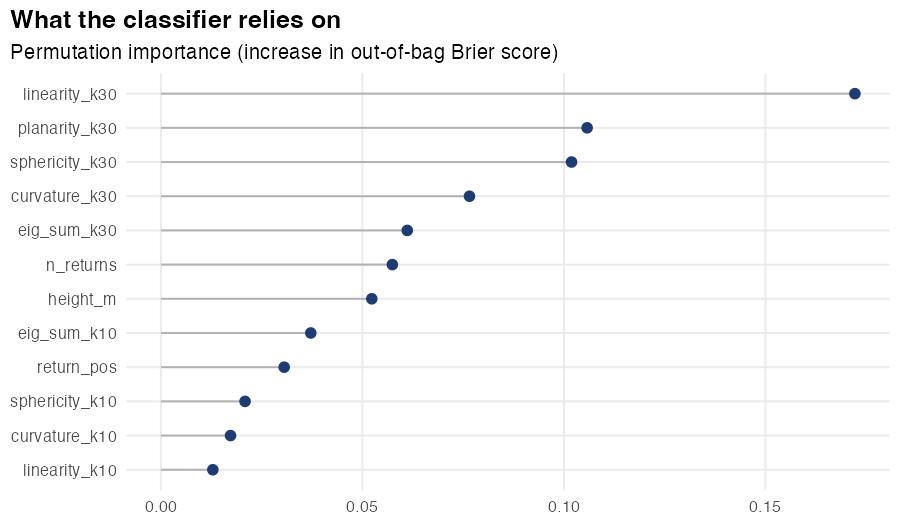
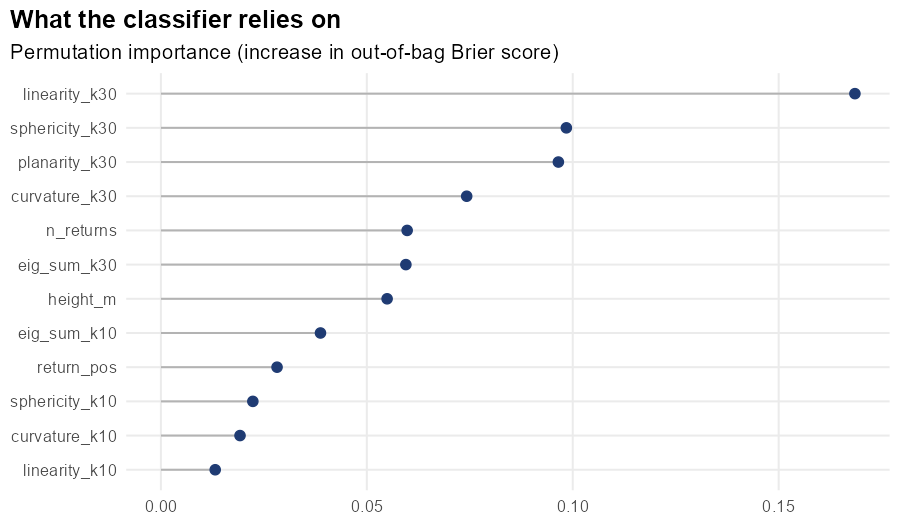
Re-run both case studies after the Tier 1 fixes; update README numbers and figures
Code state: main + #23 (unobserved coverage) + #41 (measured confidence,
fixed-zero scale), with #25 (abstain on unmapped conductors, minor_line
context), #26 (Landsat pixel gates), #27, #28 and #29 already on main.
The OSM context caches were deleted and re-fetched so they now include
power=minor_line ways.

Sunshine: tiers, strike trees, coverage and wind are unchanged. The
label change moved the CV numbers slightly (wire spatial AP 0.004 ->
0.003, random 0.22 -> 0.21; building spatial 0.36 -> 0.45). Landsat now
scores 63 pixels instead of 142 (104 excluded as < 80% observed, 99 as
< 50% canopy); 15 of 30 segments are ranked instead of 23; the top
grow-in candidate rests on one scored pixel and gets no percentile; 2
dry segments remain (0.05-0.10 and 0.46-0.51 km), both bound-dependent.

Nashville: tiers unchanged (0 grow-in, 7 fall-in, 32 clear, 24 strike
trees); 104,181 wire-labelled returns (was 104,650); wire spatial AP
0.89; weak-label kappa 0.07 (was -0.01); vendor-reference building F1
0.87; vendor + exclusion screen 0/9/30 (was 0/10/29); transfer AP 0.23.
The risk map no longer draws the zero-encroachment line mid-orange.

(cherry picked from commit 72e749e8ac0af9773a0ade0b2681754052009d0a)

diff --git a/README.md b/README.md
@@ -20,7 +20,7 @@
 | LiDAR | `CO_DRCOG_2020`, UTM metres, ~35 pts/m² | `TN_DavidsonCounty_D22`, Tennessee State Plane **US survey feet**, ~34 pts/m² |
 | Delivered classes | ground / unclassified / noise only | + vegetation (3–5) and buildings (6) |
 | Line length, above-ground points | 1.52 km, 2.26 M | 2.0 km, 1.05 M |
-| Conductor returns found | 914 | 104,650 |
+| Conductor returns found | 914 | 104,181 |
 | Conductor elevation measured along | 2% of the line | **~100%** of the line |
 | Result | Bounded: 3 robust grow-in candidates, 27 segments undecidable | Decisive: no grow-in, 24 strike trees in 7 segments, 32 clear |
 
@@ -28,8 +28,8 @@
 
 1. **No public 3DEP project from 2019 on labels power lines.** I sampled the classification of all 641 USGS 3DEP projects from 2019 onward in the public Entwine index. None uses the ASPRS wire classes; the few hits for codes 13/14 were topobathy datasets or state-specific reuse (NC Phase 4 uses 13 for roads). Conductor labels have to be derived.
 2. **Whether public LiDAR can decide grow-in depends on whether it sampled the conductors.** In Colorado it barely did, so the conductor is bounded within a band tens of metres tall and 27 of 30 segments stay undecidable. In Nashville, the 500 kV bundles were sampled along almost the whole line, so the same pipeline gives a measured, decisive screen.
-3. **Vendor vegetation classes contain the conductors.** In Nashville, 99.3% of conductor returns (103,918 points, 15–45 m up) are delivered as *high vegetation*. A canopy model built straight from the delivered classes flags **every one** of the 39 segments as grow-in; with conductor returns removed, none are.
-4. **Random cross-validation on point clouds misleads.** Random folds report a Colorado wire average precision of 0.22; 100 m spatial blocks report 0.004. A model trained in Colorado doesn't transfer to Nashville (wire recall 0).
+3. **Vendor vegetation classes contain the conductors.** In Nashville, 99.3% of conductor returns (103,449 points, 15–45 m up) are delivered as *high vegetation*. A canopy model built straight from the delivered classes flags **every one** of the 39 segments as grow-in; with conductor returns removed, none are.
+4. **Random cross-validation on point clouds misleads.** Random folds report a Colorado wire average precision of 0.21; 100 m spatial blocks report 0.003. A model trained in Colorado doesn't transfer to Nashville (wire recall 0).
 
 ![Nashville risk map](man/figures/nashville_risk_map.png)
 
@@ -143,24 +143,24 @@ Each segment reports `frac_observed` (across the corridor) and `frac_observed_un
 
 | class | n | prevalence | avg. precision, spatial blocks | random folds | spatial, no height/echo |
 |---|---:|---:|---:|---:|---:|
-| building | 3,608 | 0.0016 | 0.36 | 0.85 | 0.51 |
-| structure | 1,602 | 0.0007 | 0.012 | 0.41 | 0.011 |
-| wire | 914 | 0.0004 | 0.004 | 0.22 | 0.005 |
+| building | 3,608 | 0.0016 | 0.45 | 0.82 | 0.55 |
+| structure | 1,602 | 0.0007 | 0.011 | 0.41 | 0.008 |
+| wire | 914 | 0.0004 | 0.003 | 0.21 | 0.004 |
 
 With only a few hundred metres of labelled conductor and five structures, wires and structures don't generalise across space here. Random folds would have hidden that.
 
 ![Sunshine cross-section](man/figures/sunshine_cross_section.png)
 
-**The grown-in canopy is not the dry canopy.** A dry-season (July–September) median of 25 Landsat 8 scenes from 2019–2021, bracketing the 2020 flight, gives 142 canopy-dominated 30 m pixels in the corridor. 23 of the 30 segments have enough grown-in canopy to rank; NDVI and NDMI agree closely across them (r = 0.89).
+**The grown-in canopy is not the dry canopy.** A dry-season (July–September) median of 25 Landsat 8 scenes from 2019–2021, bracketing the 2020 flight, covers the corridor with 266 pixels. Only 63 are scored: 99 are under half canopy, and 104, mostly along the corridor edge and inside the bend, are less than 80% observed by the LiDAR, so their reflectance would describe land outside the clip. 15 of the 30 segments rest on at least two scored pixels and 5 m² of grown-in canopy and get a percentile; the others keep their index but aren't ranked. NDVI and NDMI agree closely across the ranked segments (r = 0.87).
 
-| robust grow-in candidate | NDVI percentile | NDMI percentile |
-|---|---:|---:|
-| 0.10–0.15 km, trees to 20 m | 0.37 | 0.49 |
-| 1.01–1.06 km, riparian cottonwoods on the canyon floor (top candidate) | 0.50 | 0.80 |
-| 1.06–1.11 km, canyon floor, trees to 29 m | 0.89 | 0.96 |
+| robust grow-in candidate | scored pixels | NDVI percentile | NDMI percentile |
+|---|---:|---:|---:|
+| 0.10–0.15 km, trees to 20 m | 3 | 0.76 | 0.68 |
+| 1.01–1.06 km, riparian cottonwoods on the canyon floor (top candidate) | 1 | not ranked | not ranked |
+| 1.06–1.11 km, canyon floor, trees to 29 m | 3 | 0.90 | 0.95 |
 
-- **None of the 3 robust grow-in candidates is dry.** The two worst encroachments are among the wettest canopy on the line: riparian trees on the canyon floor.
-- **The 5 driest segments** (lowest NDVI quarter; 0.05–0.10, 0.46–0.51, 0.81–0.86 and 1.32–1.42 km) are all bound-dependent: grow-in only if the conductor is at the code minimum. If the conductor turns out to be low there, encroachment and dry fuel coincide, so these come first among the 27 undecidable segments.
+- **Neither ranked grow-in candidate is dry;** both sit in the greener half of the corridor, and the 1.06–1.11 km segment is among the wettest canopy on the line (riparian trees on the canyon floor). The top candidate at 1.01–1.06 km can't be ranked: its riparian strip fills only one scored pixel, and one mixed 30 m pixel can't carry a percentile.
+- **The 2 driest segments** (lowest NDVI quarter: 0.05–0.10 and 0.46–0.51 km) are both bound-dependent: grow-in only if the conductor is at the code minimum. If the conductor turns out to be low there, encroachment and dry fuel coincide, so these come first among the 27 undecidable segments.
 
 ![Sunshine canopy dryness](man/figures/sunshine_canopy_dryness.png)
 
@@ -173,7 +173,7 @@ With only a few hundred metres of labelled conductor and five structures, wires 
 
 - **The split is close to all-or-nothing.** Windward trees are hit in 95% of fire-weather hours on average; the median leeward tree is hit in 1%.
 - **Under the optimistic bound, the top grow-in candidate also has the most windward strike trees:** 7 of its 13, at 1.01–1.06 km. It is the segment to verify first on both counts.
-- **The dry segment at 1.32–1.37 km** (lowest NDVI on the line) has 9 strike trees under the pessimistic bound, all windward.
+- **The two dry segments** (0.05–0.10 and 0.46–0.51 km) have 14 and 8 potential strike trees under the pessimistic bound, of which 4 and 2 are windward.
 
 ![Sunshine wind exposure](man/figures/sunshine_wind_exposure.png)
 
@@ -181,41 +181,41 @@ With only a few hundred metres of labelled conductor and five structures, wires 
 
 ![Nashville conductor profile](man/figures/nashville_conductor_profile.png)
 
-**The conductor is measured along the whole line.** The 500 kV bundles were well sampled: 104,650 conductor returns, three phases at about −12, 0 and +12 m, and a second circuit sharing the right-of-way at +30–45 m. The profile shows clean catenaries between towers, about 15–45 m above the ground (median 24 m).
+**The conductor is measured along the whole line.** The 500 kV bundles were well sampled: 104,181 conductor returns, three phases at about −12, 0 and +12 m, and a second circuit sharing the right-of-way at +30–45 m. The profile shows clean catenaries between towers, about 15–45 m above the ground (median 24 m).
 
 **Classifier against weak labels (spatial blocks):**
 
 | class | n | prevalence | avg. precision, spatial blocks | random folds | spatial, no height/echo |
 |---|---:|---:|---:|---:|---:|
-| wire | 104,650 | 0.10 | **0.88** | 0.94 | 0.83 |
+| wire | 104,181 | 0.10 | **0.89** | 0.95 | 0.83 |
 | structure | 4,262 | 0.004 | 0.03 | 0.26 | 0.02 |
 
 ![Nashville cross-validation](man/figures/nashville_cv_metrics.png)
 
-Wires transfer across space here: average precision 0.88 against a no-skill 0.10, and 0.83 even without the height and echo features that encode the labelling rule. Structures (31 lattice towers) still don't.
+Wires transfer across space here: average precision 0.89 against a no-skill 0.10, and 0.83 even without the height and echo features that encode the labelling rule. Structures (31 lattice towers) still don't.
 
 **Against the vendor's classes.** These are independent of the weak labels. A geometric conductor zone (inside the measured conductor envelope, within 3 m of the conductor or above) is excluded from scoring for every method alike, because the vendor put conductors in vegetation. Vegetation is 98.5% of the scored points, so its F1 can't show skill: predicting "vegetation" everywhere scores 0.992.
 
 | | vegetation F1 | building F1 | balanced accuracy | Cohen's κ |
 |---|---:|---:|---:|---:|
 | always "vegetation" (baseline) | 0.992 | 0 | 0.50 | 0 |
-| weak labels | 0.950 | 0 | 0.46 | −0.01 |
+| weak labels | 0.950 | 0 | 0.46 | 0.07 |
 | model trained on weak labels | 0.957 | 0 | 0.47 | −0.01 |
 | Colorado model, transferred | 0.992 | 0 | 0.50 | 0.00 |
-| **trained on vendor labels (spatial CV)** | 0.998 | **0.88** (AP 0.95) | 0.89 | — |
+| **trained on vendor labels (spatial CV)** | 0.998 | **0.87** (AP 0.95) | 0.89 | — |
 
-- **On vegetation vs building, the weak-label pipeline has no skill at this site.** OSM maps one building in the corridor, so there are no building labels to learn from. The vendor's labels would buy a building F1 of 0.88. The weak models' lower vegetation recall is mostly second-circuit conductors and abstentions, which the vendor also calls vegetation.
-- **The Colorado model doesn't transfer.** With its own class prior it recalls 0% of Nashville's conductor returns. Threshold-free, its wire average precision is 0.22 against a 0.10 baseline (the Nashville model: 0.87). Its 0.992 vegetation F1 is exactly the baseline.
+- **On vegetation vs building, the weak-label pipeline has no skill at this site.** OSM maps one building in the corridor, so there are no building labels to learn from. The vendor's labels would buy a building F1 of 0.87. The weak models' lower vegetation recall is mostly second-circuit conductors and abstentions, which the vendor also calls vegetation.
+- **The Colorado model doesn't transfer.** With its own class prior it recalls 0% of Nashville's conductor returns. Threshold-free, its wire average precision is 0.23 against a 0.10 baseline (the Nashville model: 0.86). Its 0.992 vegetation F1 is exactly the baseline.
 
 **Risk screen.** The same segments, with three different canopy models:
 
 | canopy model | grow-in | fall-in | clear |
 |---|---:|---:|---:|
 | vendor vegetation classes, as delivered | 39 | 0 | 0 |
-| vendor vegetation + this package's conductor removal | 0 | 10 | 29 |
+| vendor vegetation + this package's conductor removal | 0 | 9 | 30 |
 | **this package** (consensus vegetation + conductor removal) | **0** | **7** | **32** |
 
-- **The delivered classes would send crews to every span.** Removing conductor returns is the whole grow-in correction (39 → 0). Consensus labelling (model and weak rules agreeing on vegetation, vendor buildings removed) then trims fall-in from 10 segments to 7.
+- **The delivered classes would send crews to every span.** Removing conductor returns is the whole grow-in correction (39 → 0). Consensus labelling (model and weak rules agreeing on vegetation, vendor buildings removed) then trims fall-in from 9 segments to 7.
 - **No grow-in.** The managed right-of-way is clear under the conductors.
 - **The 32 clear segments were seen, not assumed.** Every segment has at least 91% of its corridor and of its grow-in zone observed (median 99%), so none is tiered `no data`. The lowest segment (0.36–0.41 km, 91% under the line) is still 16 points above the 75% threshold.
 - **24 strike trees across 7 segments,** 28–39 m from the centreline, the same under both bounds because the conductor is measured. They are the list to verify.
